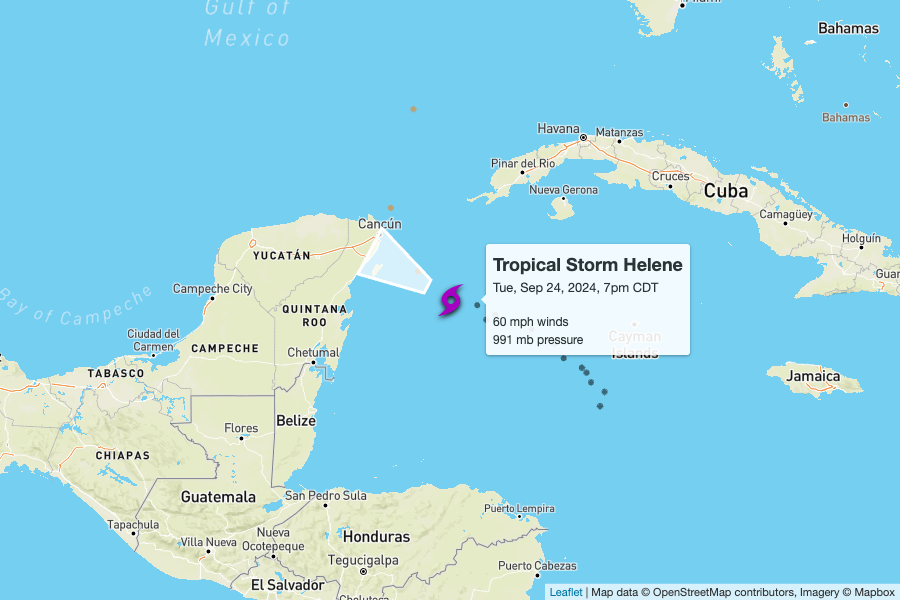
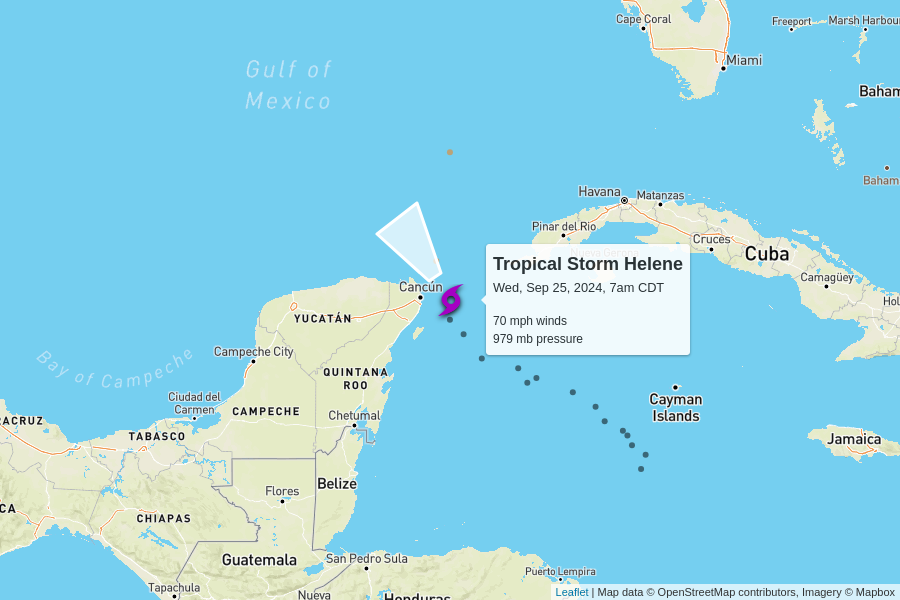
automatic update

diff --git a/docs/index.html b/docs/index.html
@@ -102,7 +102,7 @@
         <td colspan="6" class="storm category-0" >
           <h2>
             Tropical Storm Helene
-            <p class="updated">last updated <span data-time>2024-09-24T21:00:00.000Z</span></p>
+            <p class="updated">last updated <span data-time>2024-09-25T12:00:00.000Z</span></p>
           </h2>
         </td>
       </tr>
@@ -117,12 +117,12 @@
       </tr>
       <tr>
         <td class="spacer"></td>
-        <td>50 mph<br>+5 mph since last update</td>
-        <td>995 mb<br>-4 mb since last update</td>
+        <td>70 mph<br>+5 mph since last update</td>
+        <td>979 mb<br>-6 mb since last update</td>
         <td>
-          12 mph to the west-northwest
+          9 mph to the northwest
           <br/>
-          <span style="display: inline-block; font-size: 1.5em; transform: rotate(300deg);">↑</span>
+          <span style="display: inline-block; font-size: 1.5em; transform: rotate(325deg);">↑</span>
         </td>
         <td><a href="https://raw.githubusercontent.com/mgwalker/atlantic-hurricanes/main/data/csv/AL092024.csv">AL092024.csv</a></td>
         <td><a href="https://www.nhc.noaa.gov/archive/2024/HELENE.shtml?">NHC advisories</a></td>
